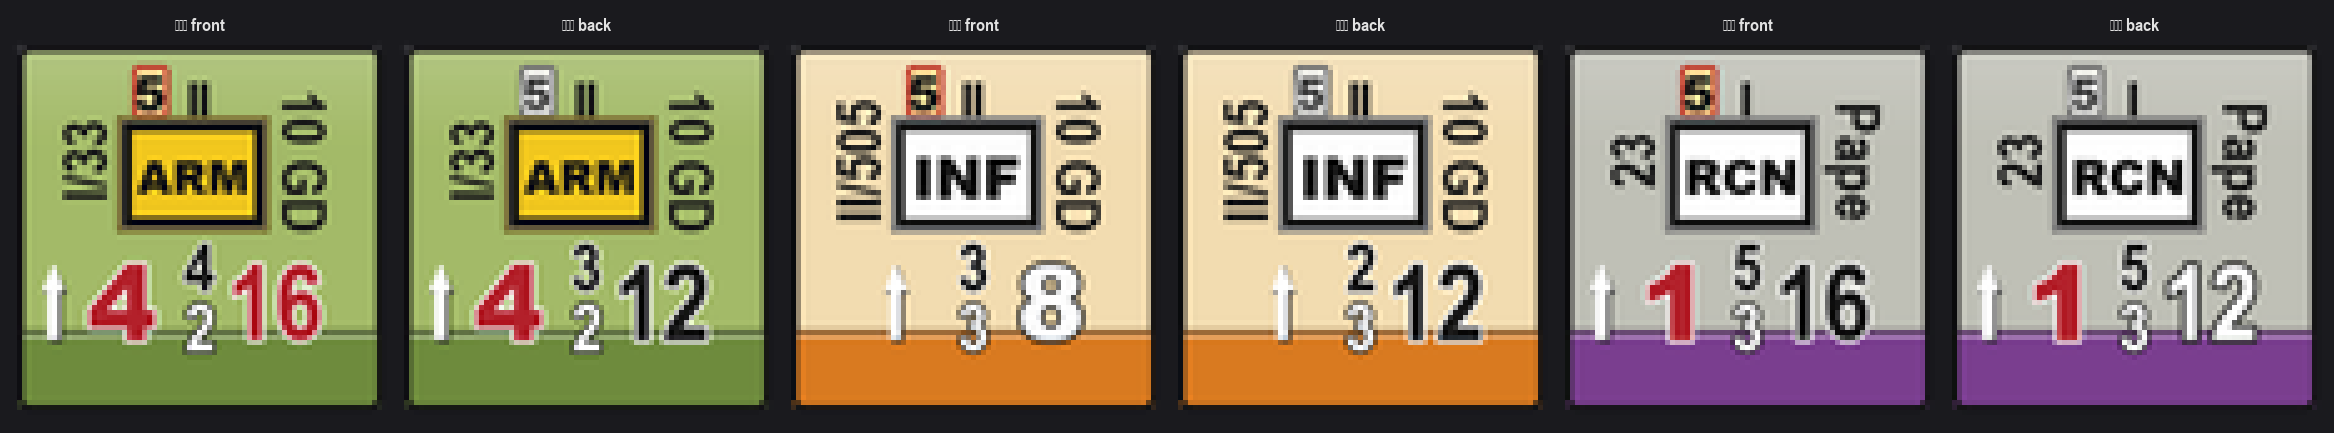
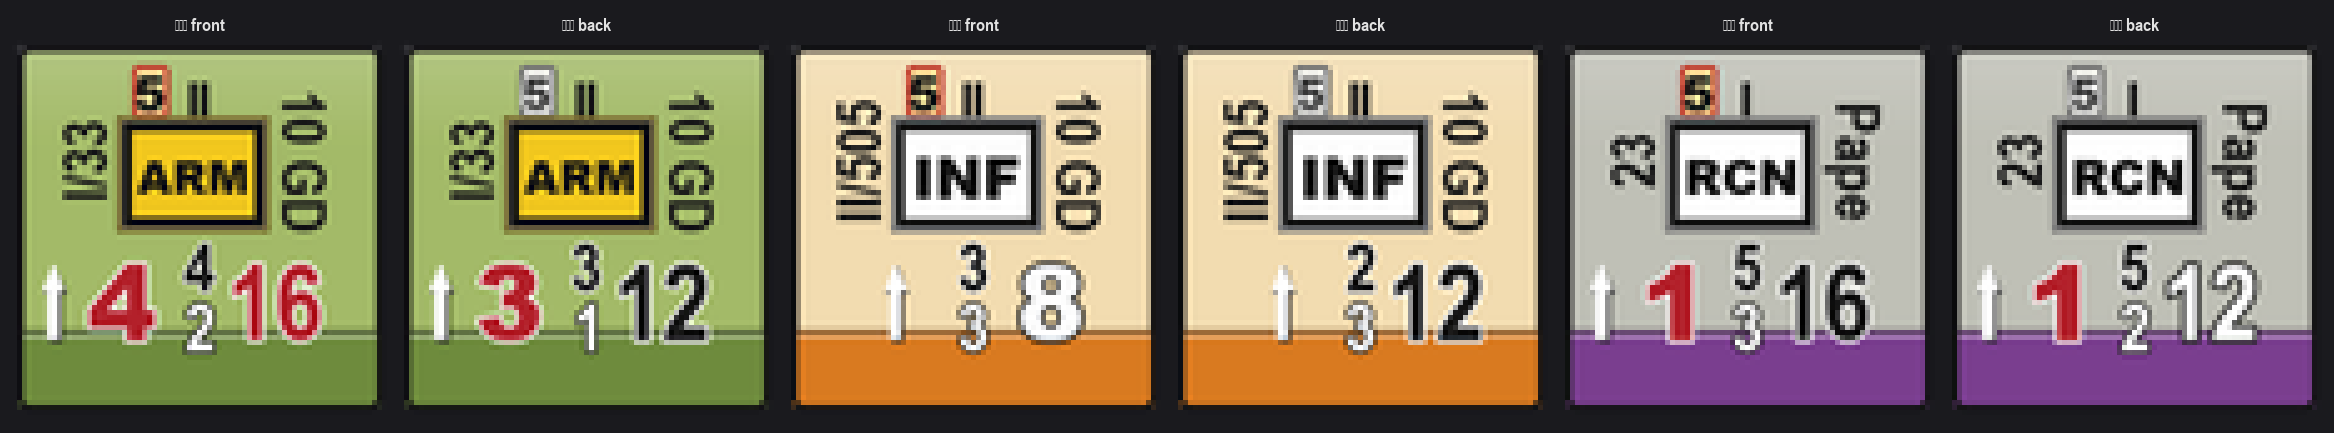
feat: 移动面可覆盖装甲值与射程（av_move / rng_move / rng2_move）

Changed region(s): [[0.1851, 0.6005, 0.2776, 0.8106], [0.8946, 0.6905, 0.9254, 0.8406]]

diff --git a/bcs_render.py b/bcs_render.py
@@ -231,6 +231,9 @@ class Counter:
     side: str = "front"             # front 战斗面 / back 移动面（布局完全一致）
     ar_move: str = ""               # 移动面的行动值（留空=沿用 ar）
     quality_move: str = ""          # 移动面的素质值（留空=沿用 quality）
+    av_move: str = ""               # 移动面的装甲值（留空=沿用 av）
+    rng_move: str = ""              # 移动面的射程（留空=沿用 rng）
+    rng2_move: str = ""             # 移动面的射程第二行（留空=沿用 rng2）
     ma_move: str = ""               # 移动面的机动力（留空=沿用 ma）
     move_class_move: str = ""       # 移动面的移动力类型 leg/truck/tac（留空=沿用 move_class）
     back_ghost: bool = True         # 移动面是否把 AR 画成虚化样式
@@ -1079,6 +1082,9 @@ def render(ct: Counter, size: int = 75, ss: int = 4) -> Image.Image:
     if ct.side == "back":
         ct = ct.copy(ar=ct.ar_move or ct.ar,
                      quality=ct.quality_move or ct.quality,
+                     av=ct.av_move or ct.av,
+                     rng=ct.rng_move or ct.rng,
+                     rng2=ct.rng2_move or ct.rng2,
                      ma=ct.ma_move or ct.ma,
                      move_class=ct.move_class_move or ct.move_class)
         if ct.back_ghost and ct.ar_style == "box":

diff --git a/bcs_sides_sheet.py b/bcs_sides_sheet.py
@@ -21,6 +21,7 @@ os.makedirs(OUT, exist_ok=True)
 UNITS = [
     R.Counter(kind="av", unit_id="I/33", formation_id="10 GD", size_label="II", ar="5",
               av="4", quality="4", rng="2", ma="16", ma_move="12", quality_move="3",
+              av_move="3", rng_move="1",
               move_class="tac", move_class_move="truck",
               hard=True, symbol="armor", bg="#A3BA68", bar_color="#6E8B3D"),
     R.Counter(kind="inf", unit_id="II/505", formation_id="10 GD", size_label="II", ar="5",
@@ -28,7 +29,7 @@ UNITS = [
               move_class="leg", move_class_move="truck",
               symbol="inf", bg="#F2DCB0", bar_color="#D97A20"),
     R.Counter(kind="dual", unit_id="23", formation_id="Pape", size_label="I", ar="5",
-              av="1", quality="5", ma="16", ma_move="12",
+              av="1", quality="5", rng="3", rng_move="2", ma="16", ma_move="12",
               move_class="truck", move_class_move="leg",
               symbol="recon", bg="#BFC0B6", bar_color="#7A3E8F"),
 ]

diff --git a/bcs_gui.py b/bcs_gui.py
@@ -1,4 +1,4 @@
-# -*- coding: utf-8 -*-
+# -*- coding: utf-8 -*-
 """
 BCS 算子生成器 —— 图形界面
 左侧实时预览正面/背面，右侧参数面板；支持导出单张 PNG、成对 PNG、JSON 存档与批量导出。
@@ -221,6 +221,12 @@ class App:
                         command=lambda: self._push(
                             "back_ghost", bool(self.vars["back_ghost"].get()))
                         ).grid(row=25, column=0, columnspan=2, sticky="w")
+
+        for i, (key, label) in enumerate([("av_move", "移动面装甲值"),
+                                          ("rng_move", "移动面射程"),
+                                          ("rng2_move", "移动面射程第二行")]):
+            self.vars[key] = tk.StringVar()
+            row(g, label, self._entry(g, key), 26 + i)
 
         # --- 配色
         g = group("④ 配色 · 色带")
